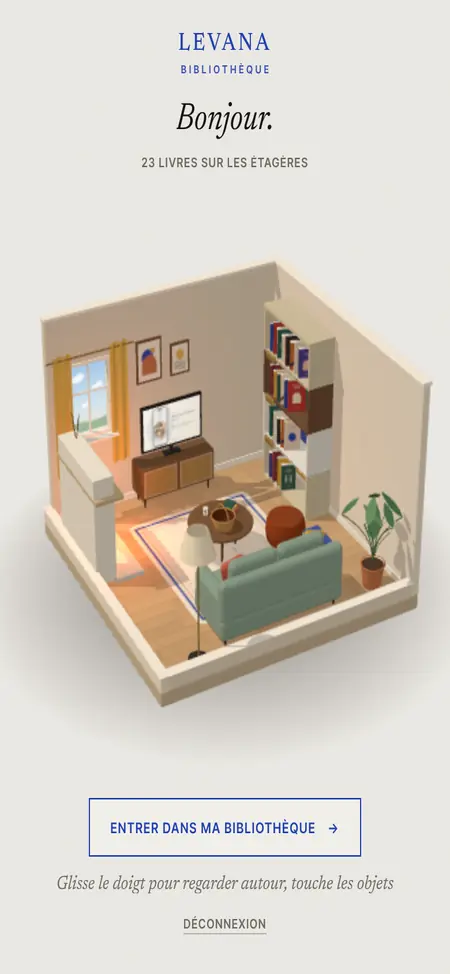
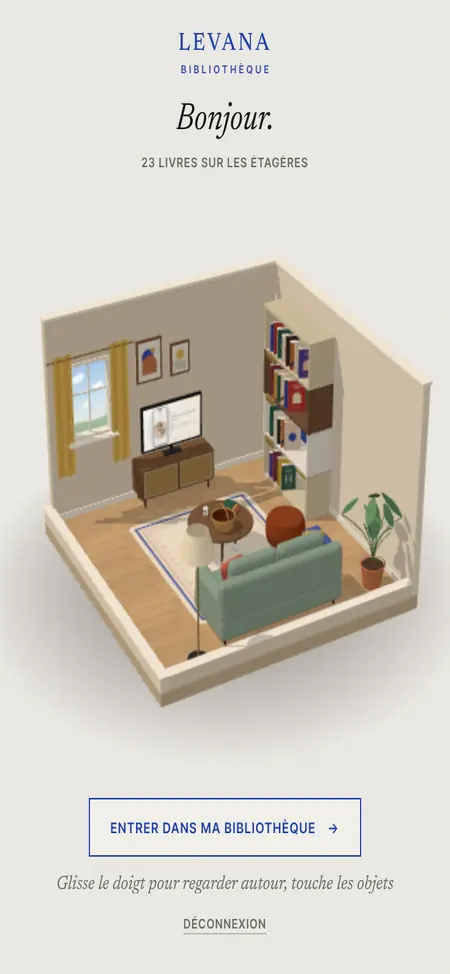
Salon : cheminée centrée, les meubles du côté invisible s'effacent
Claude-Session: https://claude.ai/code/session_01Tg9JuQWn64WBjX1JtYF8aa

Changed region(s): [[0.0933, 0.3696, 0.4356, 0.6468]]

diff --git a/src/three/LivingRoomScene.js b/src/three/LivingRoomScene.js
@@ -26,7 +26,7 @@ const TARGET0 = new THREE.Vector3(0, 0.95, 0)
 
 // emplacements (repère de la pièce)
 const BOOKCASE = { x: -1.05, z: -R + 0.2, w: 1.62, h: 2.18, d: 0.38 }   // mur du fond, à gauche (face à la caméra)
-const FIRE = { x: -0.95, w: 1.3, d: 0.3, h: 1.38 }                     // mur de devant, à gauche (loin des livres et du canapé)
+const FIRE = { x: 0, w: 1.3, d: 0.3, h: 1.38 }                         // centrée sur le mur de devant (loin des livres et du canapé)
 const TV = { z: 0.0 }                       // mur de gauche, en face du canapé
 const SOFA = { x: 1.34, z: 0.0 }            // face à la télé
 const TABLE = { x: -0.15, z: 0.0 }          // entre le canapé et la télé
@@ -409,7 +409,7 @@ export class LivingRoomScene {
     const wall = (name, n, build) => {
       const grp = new THREE.Group()
       g.add(grp)
-      const w = { name, grp, n, cut: new Spring(1, 70, 1), decor: [] }
+      const w = { name, grp, n, cut: new Spring(1, 70, 1), decor: [], attached: [] }   // attached : meubles contre ce mur
       build(grp, w)
       this.walls.push(w)
       return w
@@ -721,6 +721,7 @@ export class LivingRoomScene {
       vase.add(tw)
     }
     this._register('fire', grp, 'La cheminée')
+    this.wallOf('front').attached.push(grp)
   }
 
   // ---- Coin télé -------------------------------------------------------------------------
@@ -776,6 +777,7 @@ export class LivingRoomScene {
     this.tvSwitch = 1
     this._drawTv()
     this._register('tv', grp, 'Le tuto')
+    this.wallOf('left').attached.push(grp)
   }
 
   /** Livres à montrer sur l'écran : en cours, sinon les derniers arrivés. */
@@ -901,17 +903,38 @@ export class LivingRoomScene {
     this.items.get('sofa').group.visible = d < 0.99
   }
 
+  /**
+   * Un mur abaissé (et ce qui y est accroché) ; les meubles adossés à ce mur s'aplatissent
+   * avec lui jusqu'à disparaître : du côté invisible, on ne les voit pas de dos.
+   */
+  _applyCut(w) {
+    w.grp.scale.y = Math.max(0.05, w.cut.v)
+    const show = w.cut.v > 0.6
+    for (const d of w.decor) d.visible = show
+    const f = clamp((w.cut.v - 0.07) / 0.93, 0, 1)
+    w.f = f
+    const objs = w.name === 'back' ? [this.bookcase, this.mirror?.g].filter(Boolean) : w.attached
+    for (const o of objs) {
+      o.userData.baseSy ??= o.scale.y
+      o.userData.baseY ??= o.position.y
+      o.scale.y = Math.max(0.001, o.userData.baseSy * f)
+      o.position.y = o.userData.baseY * f
+      o.visible = f > 0.02 && !(o === this.bookcase && this.mirror)
+    }
+  }
+
   /** Les bulles au-dessus de la télé et du panier suivent la caméra. */
   _placeBubbles() {
     const S = this.renderer.domElement.getBoundingClientRect()
     const show = !this.fly && !this.tvZoom
+    const tvShown = (this.wallOf('left').f ?? 1) > 0.5
     for (const [kind, pos] of [['tv', new THREE.Vector3(-R + 0.2, 1.47, TV.z)], ['basket', new THREE.Vector3(TABLE.x + 0.17, 0.86, TABLE.z + 0.04)]]) {
       const el = this.cb.bubble?.(kind)
       if (!el) continue
       const v = pos.project(this.camera)
       const x = S.left + ((v.x + 1) / 2) * S.width, y = S.top + ((1 - v.y) / 2) * S.height
       el.style.transform = `translate3d(${x.toFixed(1)}px, ${y.toFixed(1)}px, 0)`
-      el.classList.toggle('off', !show)
+      el.classList.toggle('off', !show || (kind === 'tv' && !tvShown))
     }
   }
 
@@ -1356,6 +1379,8 @@ export class LivingRoomScene {
     this.libFill.position.set(5, 2, 3); this.libFill.target.position.set(0, 0, 0)
     this.mirror = { lib, g, copy, pairs, doors, hits, sc, tops, cutY, sig: this._wallSig(lib) }
     this.bookcase.visible = false
+    const bw = this.wallOf('back')
+    if (bw) this._applyCut(bw)
     this.shadowDirty = 2
     return true
   }
@@ -1704,9 +1729,7 @@ export class LivingRoomScene {
         if (!this.wallsReady) w.cut.snap(w.cut.t)          // à l'ouverture : déjà en place, sans animation
         if (!w.cut.done || !this.wallsReady) {
           for (let i = 0; i < sub; i++) w.cut.step(h)
-          w.grp.scale.y = Math.max(0.05, w.cut.v)
-          const show = w.cut.v > 0.6
-          for (const d of w.decor) d.visible = show
+          this._applyCut(w)
           this.shadowDirty = Math.max(this.shadowDirty, 1)
         }
       }
@@ -1785,7 +1808,8 @@ export class LivingRoomScene {
       f.getWorldPosition(tmp)
       f.rotation.y = Math.atan2(cam.x - tmp.x, cam.z - tmp.z)
     }
-    this.fireLight.intensity = 3.2 * fp * flick * sal
+    const fireOn = this.wallOf('front').f ?? 1
+    this.fireLight.intensity = 3.2 * fp * flick * sal * fireOn
     this.ember.material.opacity = (0.65 + 0.25 * flick) * vis
     // lampe
     for (let i = 0; i < sub; i++) this.lampOn.step(h)
